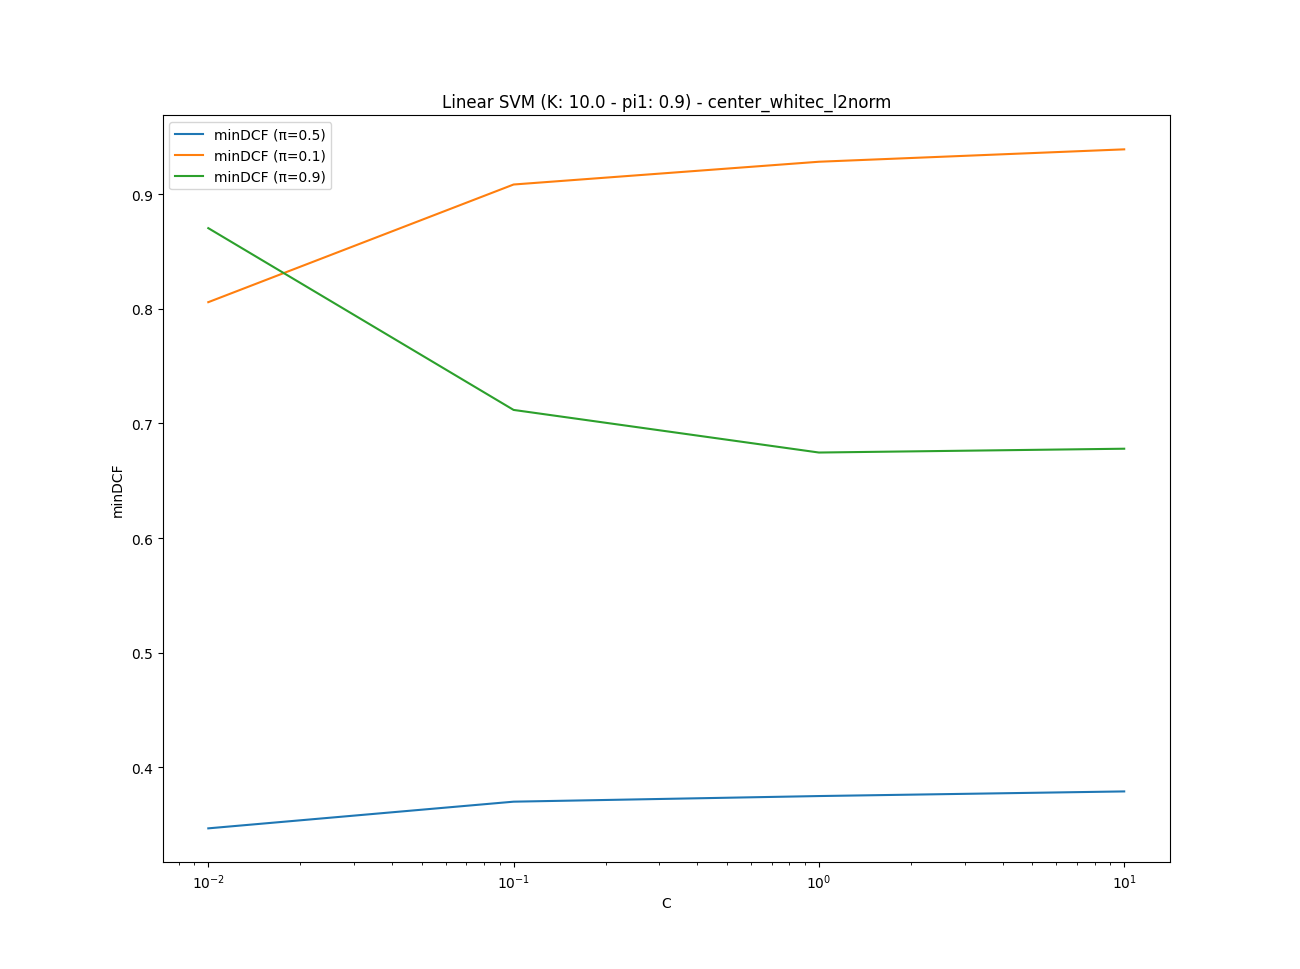
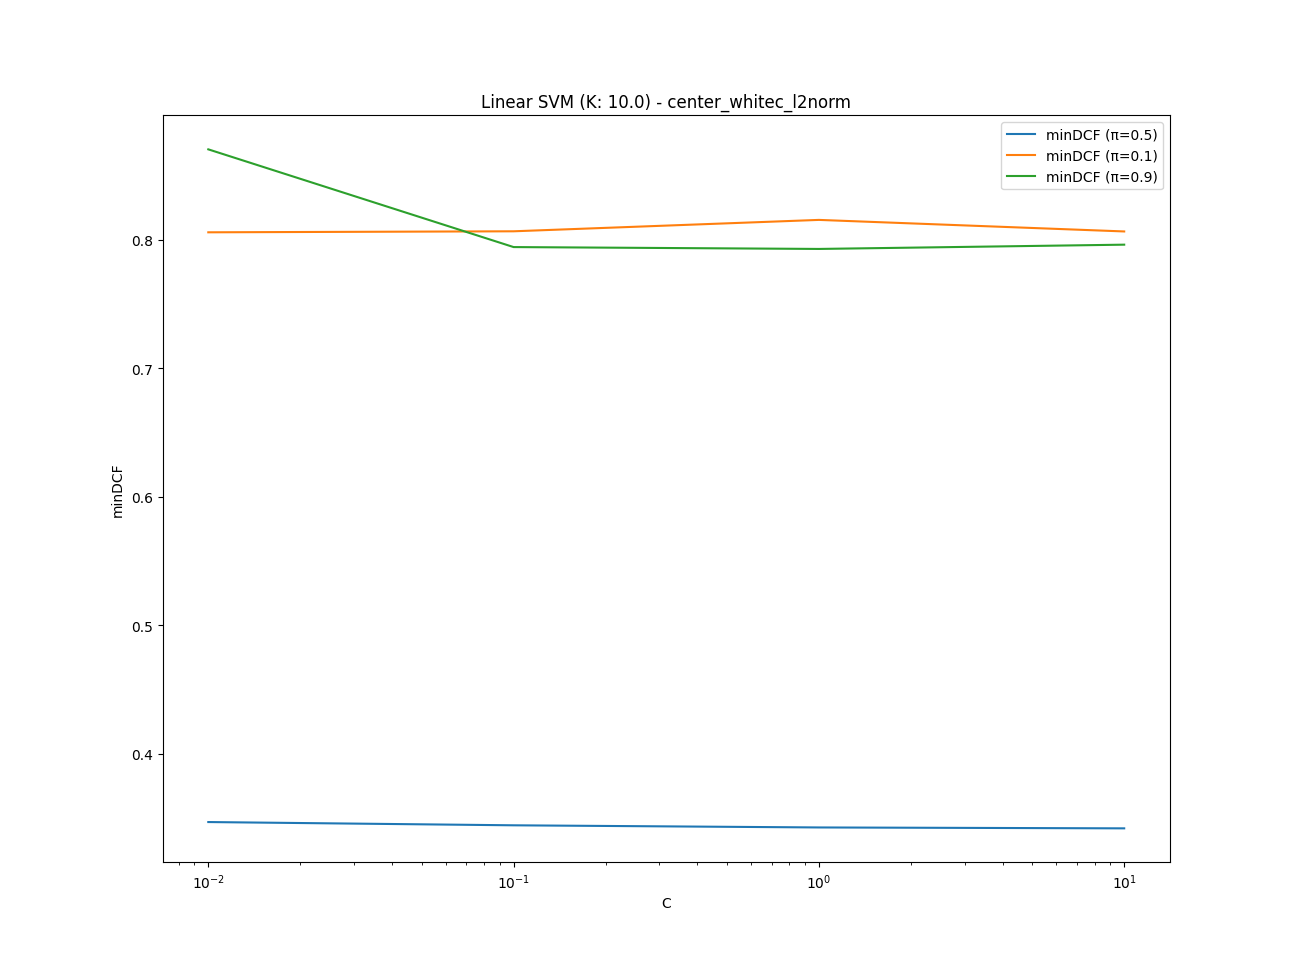
linear svm plots and gridsearch results

diff --git a/wine_project/scripts/linear_svm_classifier.py b/wine_project/scripts/linear_svm_classifier.py
@@ -116,7 +116,7 @@ if __name__ == "__main__":
         linear_svm_gridsearch()
 
     # Using the best hyperparameters, try class-balancing w.r.t target applications
-    with LoggingPrinter(incremental_path(TRAINLOGS_BASEPATH, LINEAR_SVM_CLASS_BALANCING_TRAINLOG_FNAME)):
-        linear_svm_class_balancing()
+    # with LoggingPrinter(incremental_path(TRAINLOGS_BASEPATH, LINEAR_SVM_CLASS_BALANCING_TRAINLOG_FNAME)):
+    #     linear_svm_class_balancing()
 
     plt.show()
